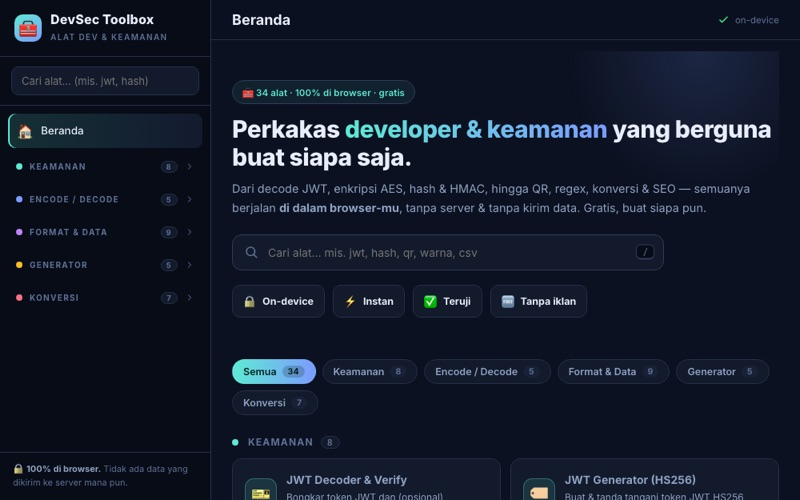
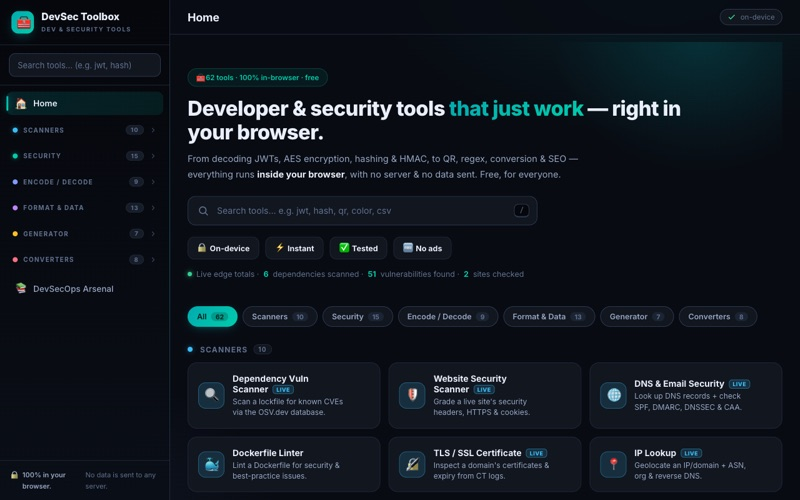
content(devsec): refresh portfolio for DevSec v2 — 62 tools, live scanners, DevSecOps Arsenal
- demos.ts / playground.ts / resume.ts / nav.ts: 34 → 62 tools; now 'Security ·
  DevSecOps' with live Cloudflare-Worker scanners (dependency CVEs, website, TLS,
  DNS, AI explainer) + 270+ tool DevSecOps Arsenal; badge New
- devsec.jpg poster: fresh English screenshot (62 tools, Scanners, live edge totals)

diff --git a/src/data/demos.ts b/src/data/demos.ts
@@ -86,19 +86,19 @@ export const demos = {
           caseStudy: '/projects/lavelle/',
         },
         {
-          title: 'Inspobase',
+          title: 'Loupe',
           category: 'Design · curated gallery',
           stack: 'Next.js · Tailwind · Supabase',
           desc: 'A curated gallery of the best design on the web — filter by colour and font, ⌘K search, and an immersive full-page detail view.',
-          href: 'https://inspobase.ksatriabintangsamudra.com/',
-          poster: '/images/shots/inspobase/desktop.jpg',
+          href: 'https://loupe.ksatriabintangsamudra.com/',
+          poster: '/images/shots/loupe/desktop.jpg',
           emoji: '🎨',
           status: 'Live demo',
           access: {
             kind: 'open',
             note: 'Open and browse — filter by colour/font. Sign-in (Google or GitHub) is optional, only to save pieces.',
           },
-          caseStudy: '/projects/inspobase/',
+          caseStudy: '/projects/loupe/',
         },
         {
           title: 'StatsBuzz',
@@ -259,14 +259,14 @@ export const demos = {
       items: [
         {
           title: 'DevSec Toolbox',
-          category: 'Security · Dev',
-          stack: '34 tools · 100% client-side',
-          desc: 'JWT, AES, hashing, regex, JSON and more — every tool runs on-device, nothing leaves your browser.',
+          category: 'Security · DevSecOps',
+          stack: '62 tools · live edge scanners',
+          desc: 'A full DevSecOps suite — 62 tools. On-device utilities (JWT, AES, hashing, JSON) plus live scanners (dependency CVEs via OSV, website/TLS/DNS/WHOIS, AI explainer) on Cloudflare Workers, and a 270+ tool DevSecOps Arsenal.',
           href: 'https://devsec.ksatriabintangsamudra.com/',
           poster: '/images/tools/devsec.jpg',
           emoji: '🧰',
           status: 'Live',
-          access: { kind: 'open', note: 'Runs in your browser — no sign-up.' },
+          access: { kind: 'open', note: 'On-device tools + live edge scanners — no sign-up.' },
         },
         {
           title: 'HAND//TRACE',

diff --git a/src/data/resume.ts b/src/data/resume.ts
@@ -109,7 +109,7 @@ export const resume = {
     { html: '<strong>ksatriabintangsamudra.com</strong> — Astro on Cloudflare Workers with a Workers AI chat assistant and an “Explain it” endpoint that returns sanitised Mermaid diagrams.', when: '2026' },
     { html: '<strong>Kiloan</strong> — subscription Android point-of-sale for laundry businesses (Flutter).', when: '2026' },
     { html: '<strong>Makmur Motor</strong> — showroom and inventory CMS for a Denpasar dealership on Cloudflare Workers, D1 and KV.', when: 'makmurmotor.biz.id' },
-    { html: '<strong>DevSec Toolbox</strong> — 34 developer and security tools that run entirely in the browser.', when: 'Live' },
+    { html: '<strong>DevSec Toolbox</strong> — 62 developer & security tools: on-device utilities plus live DevSecOps scanners (dependency CVEs, website, TLS, DNS, AI) on Cloudflare Workers, and a 270+ tool DevSecOps Arsenal.', when: 'Live' },
   ],
   education: [
     { html: '<strong>STIE Anindya Guna Semarang</strong> — Bachelor of Management (S.M.), in progress · expected Nov–Dec 2027' },

diff --git a/src/data/nav.ts b/src/data/nav.ts
@@ -63,7 +63,7 @@ export const navGroups: NavGroup[] = [
     blurb: 'Things I built that run in your browser right now.',
     layout: 'grid',
     items: [
-      { label: 'DevSec Toolbox', desc: '34 in-browser dev tools', href: 'https://devsec.ksatriabintangsamudra.com/', icon: 'wrench', badge: 'Live', external: true },
+      { label: 'DevSec Toolbox', desc: '62 dev & security tools + live scanners', href: 'https://devsec.ksatriabintangsamudra.com/', icon: 'wrench', badge: 'New', external: true },
       { label: 'HAND//TRACE', desc: 'Gesture AR in the browser', href: 'https://handtrace.ksatriabintangsamudra.com/', icon: 'sparkles', external: true },
       { label: 'ResumeKita', desc: 'ATS-friendly CV builder', href: 'https://resume.ksatriabintangsamudra.com', icon: 'file', external: true },
       { label: 'Games', desc: 'Termle & more — play now', href: '/games/', icon: 'sparkles', badge: 'New' },

diff --git a/src/data/playground.ts b/src/data/playground.ts
@@ -33,12 +33,12 @@ export const playground = {
       items: [
         {
           title: 'DevSec Toolbox',
-          meta: 'Security · Dev',
-          desc: '34 privacy-first developer & security tools — JWT, AES, hashing, regex, JSON — running 100% in your browser.',
+          meta: 'Security · DevSecOps',
+          desc: '62 security & dev tools — on-device utilities plus live Cloudflare-Worker scanners (dependency CVEs, website, TLS, DNS, AI explainer) and a 270+ tool DevSecOps Arsenal.',
           href: 'https://devsec.ksatriabintangsamudra.com/',
           poster: '/images/tools/devsec.jpg',
           emoji: '🧰',
-          badge: 'Live',
+          badge: 'New',
         },
         {
           title: 'HAND//TRACE',
